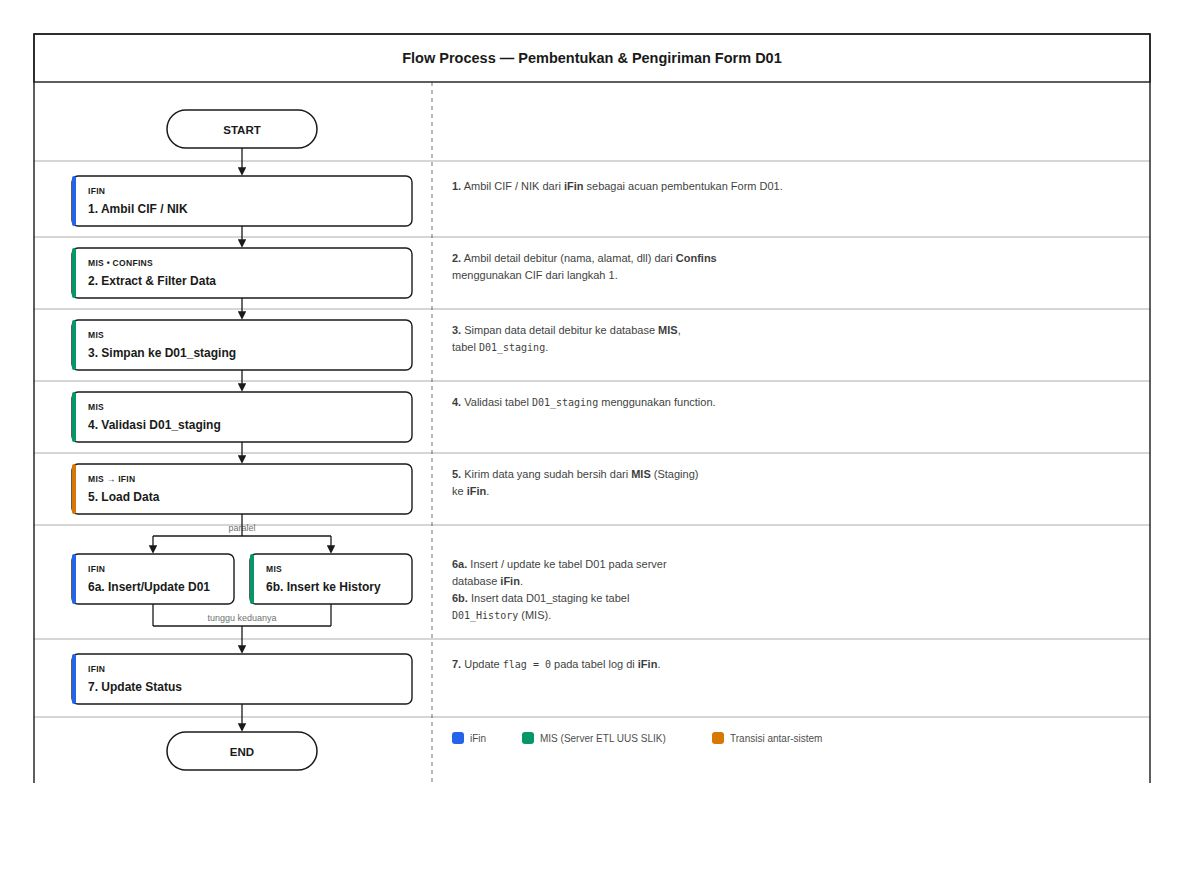
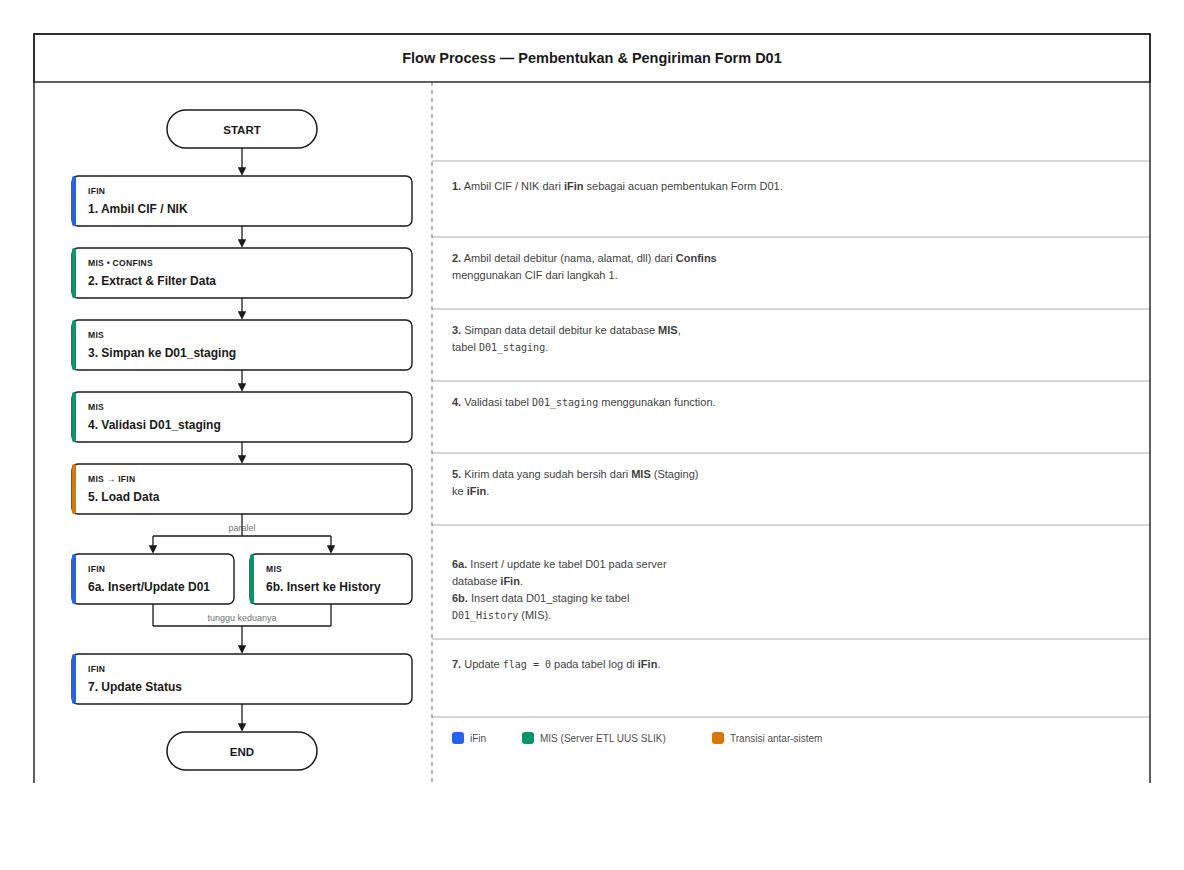
Limit row divider lines to the description column only
Grid lines no longer cross through the left-side flowchart; they now
start at the column divider (x=400) and only span the right-hand
description column, per feedback.

diff --git a/diagrams/slik-d01-business-flow.html b/diagrams/slik-d01-business-flow.html
@@ -34,14 +34,14 @@
       <text x="560" y="31" text-anchor="middle" font-size="14.5" font-weight="700">Flow Process — Pembentukan &amp; Pengiriman Form D01</text>
 
       <!-- Row dividers (table grid) -->
-      <line x1="2" y1="129" x2="1118" y2="129" stroke="currentColor" stroke-width="1" opacity="0.35"/>
-      <line x1="2" y1="205" x2="1118" y2="205" stroke="currentColor" stroke-width="1" opacity="0.35"/>
-      <line x1="2" y1="277" x2="1118" y2="277" stroke="currentColor" stroke-width="1" opacity="0.35"/>
-      <line x1="2" y1="349" x2="1118" y2="349" stroke="currentColor" stroke-width="1" opacity="0.35"/>
-      <line x1="2" y1="421" x2="1118" y2="421" stroke="currentColor" stroke-width="1" opacity="0.35"/>
-      <line x1="2" y1="493" x2="1118" y2="493" stroke="currentColor" stroke-width="1" opacity="0.35"/>
-      <line x1="2" y1="607" x2="1118" y2="607" stroke="currentColor" stroke-width="1" opacity="0.35"/>
-      <line x1="2" y1="685" x2="1118" y2="685" stroke="currentColor" stroke-width="1" opacity="0.35"/>
+      <line x1="400" y1="129" x2="1118" y2="129" stroke="currentColor" stroke-width="1" opacity="0.35"/>
+      <line x1="400" y1="205" x2="1118" y2="205" stroke="currentColor" stroke-width="1" opacity="0.35"/>
+      <line x1="400" y1="277" x2="1118" y2="277" stroke="currentColor" stroke-width="1" opacity="0.35"/>
+      <line x1="400" y1="349" x2="1118" y2="349" stroke="currentColor" stroke-width="1" opacity="0.35"/>
+      <line x1="400" y1="421" x2="1118" y2="421" stroke="currentColor" stroke-width="1" opacity="0.35"/>
+      <line x1="400" y1="493" x2="1118" y2="493" stroke="currentColor" stroke-width="1" opacity="0.35"/>
+      <line x1="400" y1="607" x2="1118" y2="607" stroke="currentColor" stroke-width="1" opacity="0.35"/>
+      <line x1="400" y1="685" x2="1118" y2="685" stroke="currentColor" stroke-width="1" opacity="0.35"/>
 
       <!-- Column divider -->
       <line x1="400" y1="50" x2="400" y2="784" stroke="currentColor" stroke-width="1.2" stroke-dasharray="4 4" opacity="0.5"/>
